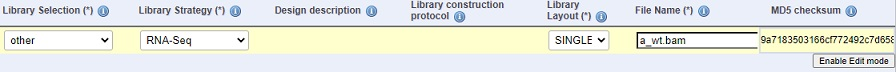
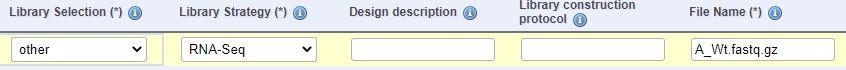
Fastq instead of bam

diff --git a/_episodes/03-exercise-ENA-submission.md b/_episodes/03-exercise-ENA-submission.md
@@ -30,7 +30,7 @@ keypoints:
     5. Link the sequencing data to the sample metadata
 
 ### File upload
-You must upload data files into your private Webin file upload area at EMBL-EBI **before** you can submit the files through the Webin submission service. We will use  *Note: for other options, follow [this link](https://ena-docs.readthedocs.io/en/latest/submit/fileprep/upload.html#file-upload-options)*
+You must upload data files into your private Webin file upload area at EMBL-EBI **before** you can submit the files through the Webin submission service. We will use Webin File Loader. *Note: for other options, follow [this link](https://ena-docs.readthedocs.io/en/latest/submit/fileprep/upload.html#file-upload-options), e.g. [Windows Explorer](https://ena-docs.readthedocs.io/en/latest/submit/fileprep/upload.html?highlight=explorer#using-windows-file-explorer)*
 
 1. Launch the Webin File Loader application (Mac users please see further instructions below)
 
@@ -104,7 +104,7 @@ You must upload data files into your private Webin file upload area at EMBL-EBI 
 {: .solution}
 
 * Click on `+ Add` button and fill the Basic details
-    * `Unique name` - a_wt
+    * `Unique name` - A_Wt
     * `Title`- Sample A wildtype
 * Click on **Submit**
 
@@ -123,26 +123,25 @@ You must upload data files into your private Webin file upload area at EMBL-EBI 
 * Select your Study accession (typically starting with PRJEB) and click on **Next**
 * Since we already have submitted our Sample, click on **Skip** in the next window
 * Fill in the Run information
-    * Click on BAM as file format
-    * Sample reference - a_wt
+    * Click on `One Fastq file (Single)` as file format
+    * Sample reference - A_Wt
     * Instrument Model - Illumina HiSeq 2500
     * Library Source - TRANSCRIPTOMIC
     * Library Selection - other
     * Library Strategy - RNA-Seq
     * Library Layout - SINGLE
-    * File Name - a_wt.bam
-    * MD5 checksum - 9a7183503166cf772492c7d6581f3b72
+    * File Name - A_Wt.fastq.gz 
 * Click **Submit**
 
 > ## Solution
 > ![submit_reads_1](https://nbisweden.github.io/module-repository-submission-dm-practices/fig/submit_reads_1.jpg)
+> ![submit_reads_1](https://nbisweden.github.io/module-repository-submission-dm-practices/fig/submit_reads_1_mini.jpg)
 > ![submit_reads_2](https://nbisweden.github.io/module-repository-submission-dm-practices/fig/submit_reads_2.jpg)
 {: .solution}
 
 ## Files to submit
-This sequence file (.bam format) needs to be downloaded previous to exercise 
+This sequence file (.fastq format) needs to be downloaded previous to exercise 
 A_Wt https://www.ebi.ac.uk/arrayexpress/files/E-MTAB-9163/E-MTAB-9163.up_201_1.bam 
-
 
 ## Reference material 
 https://www.ebi.ac.uk/training-beta/online/courses/ena-quick-tour/submitting-data-to-ena/
